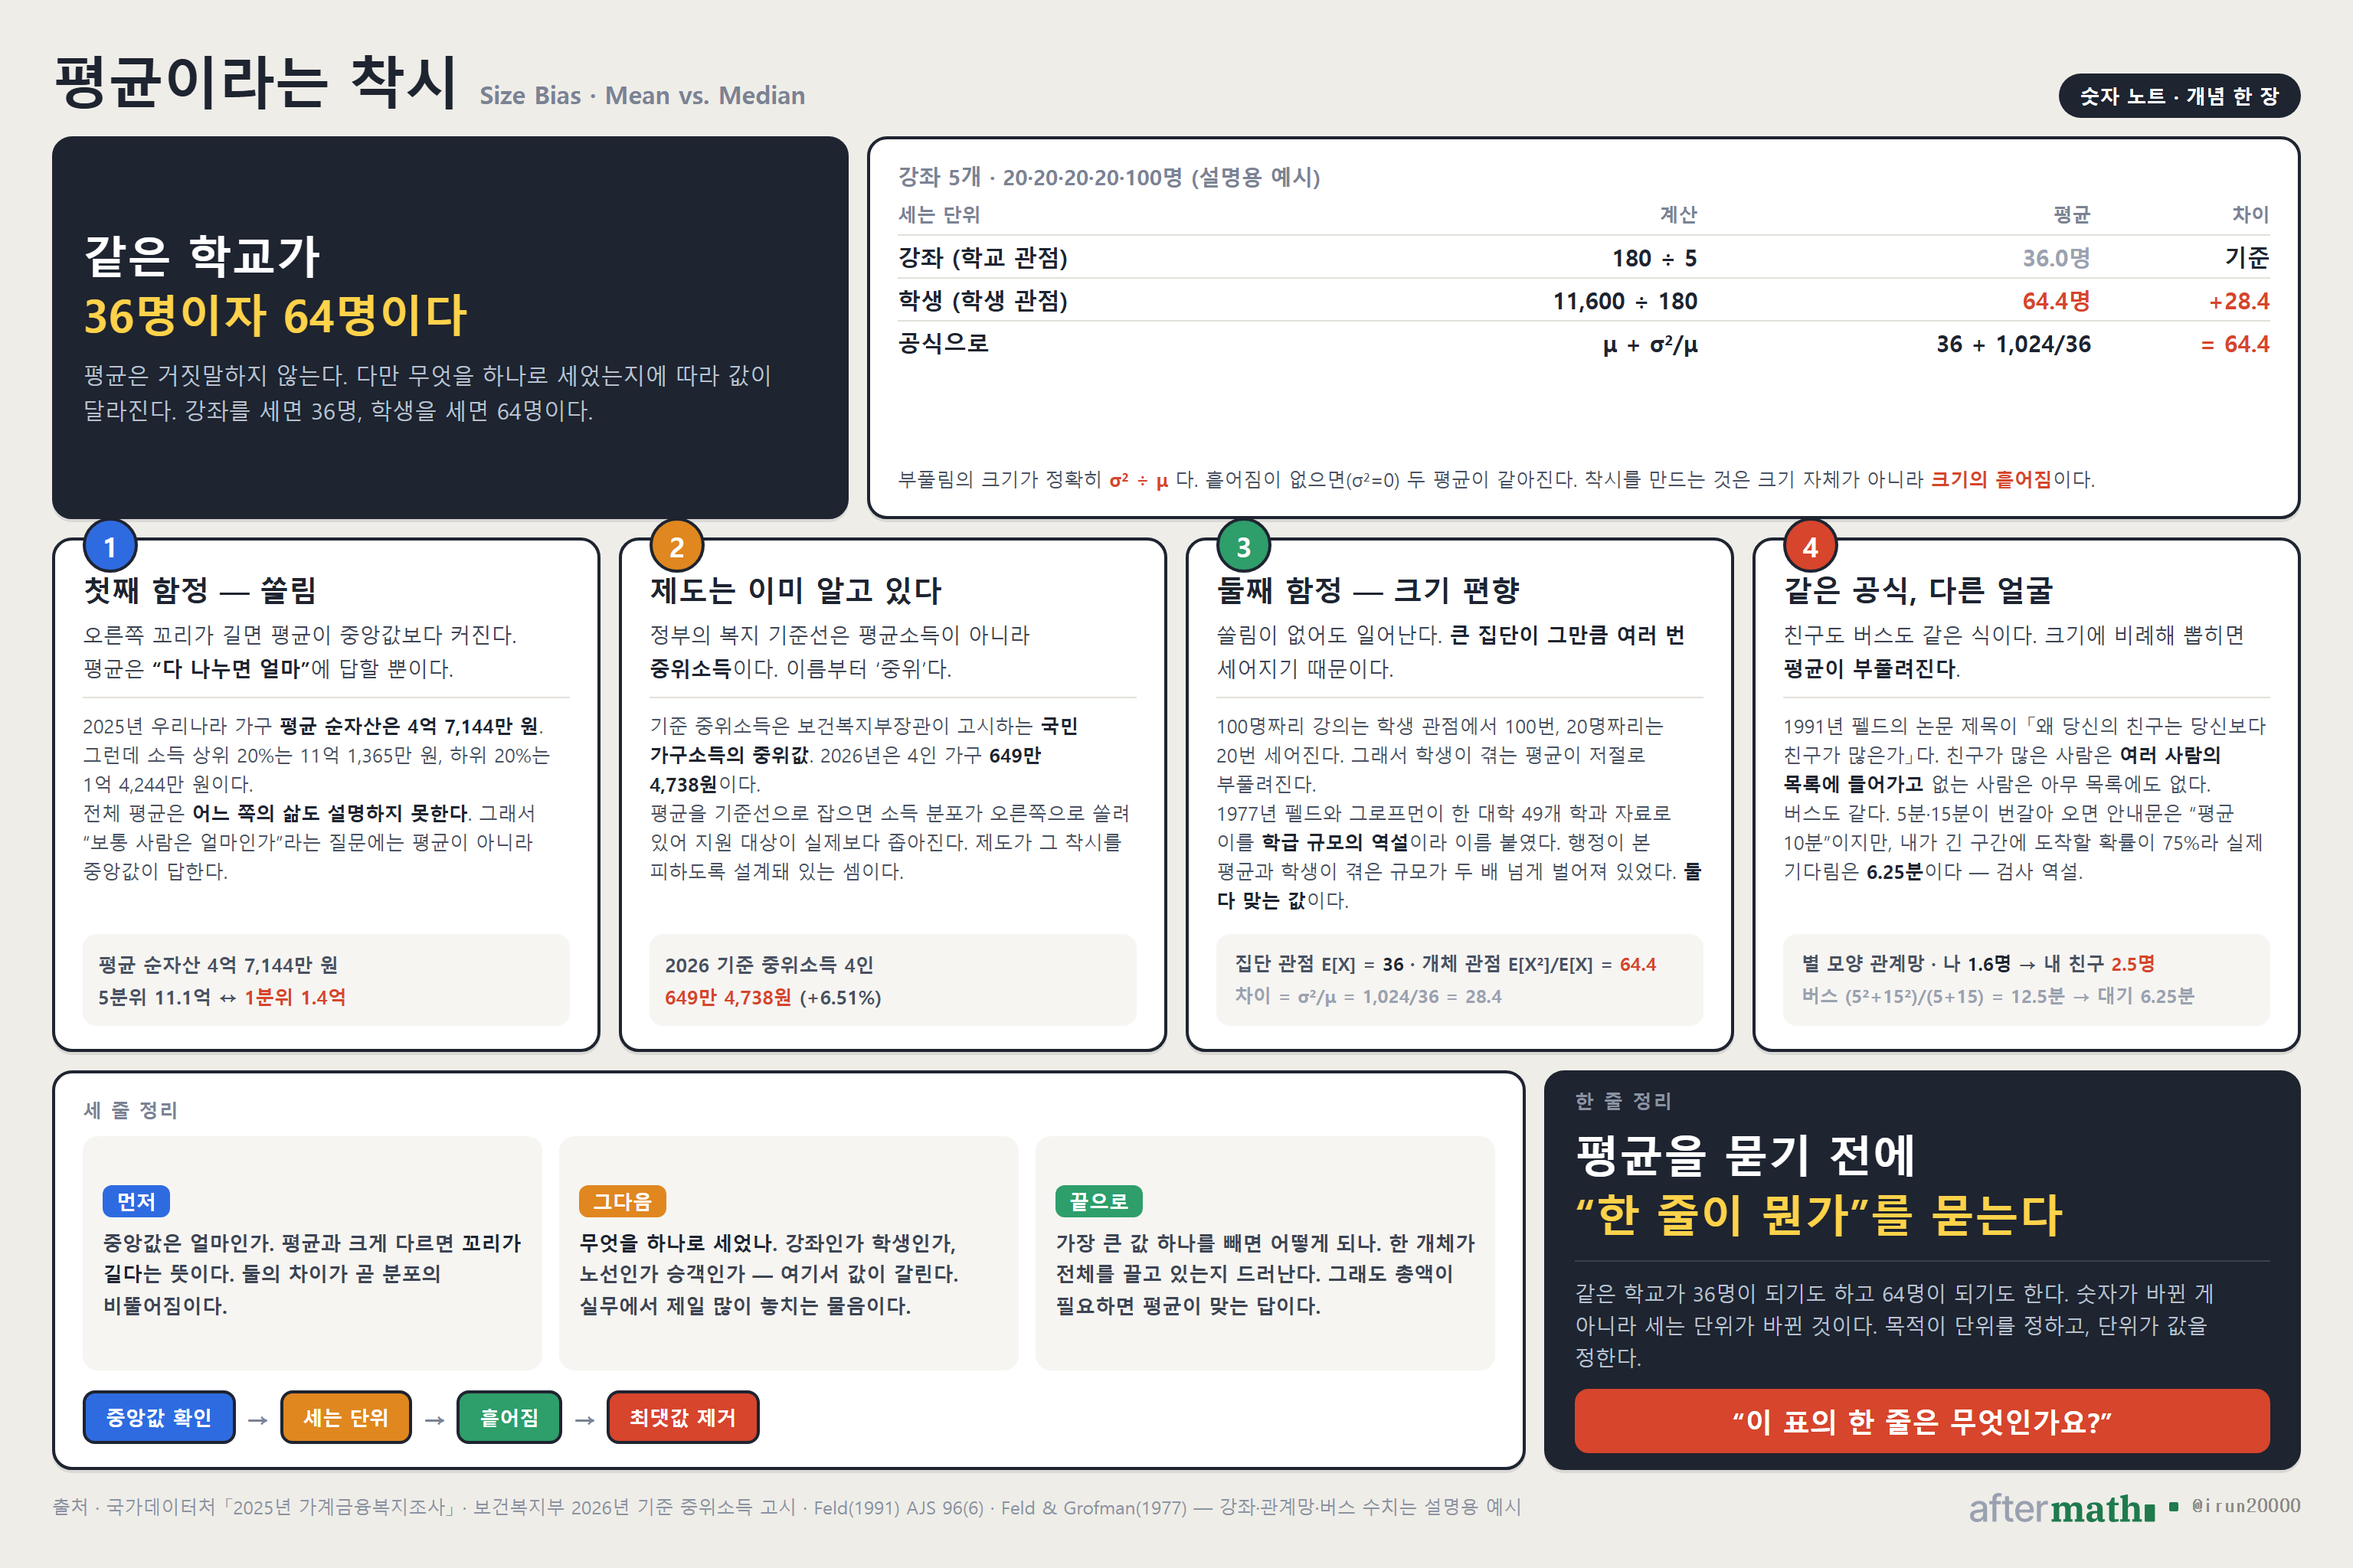
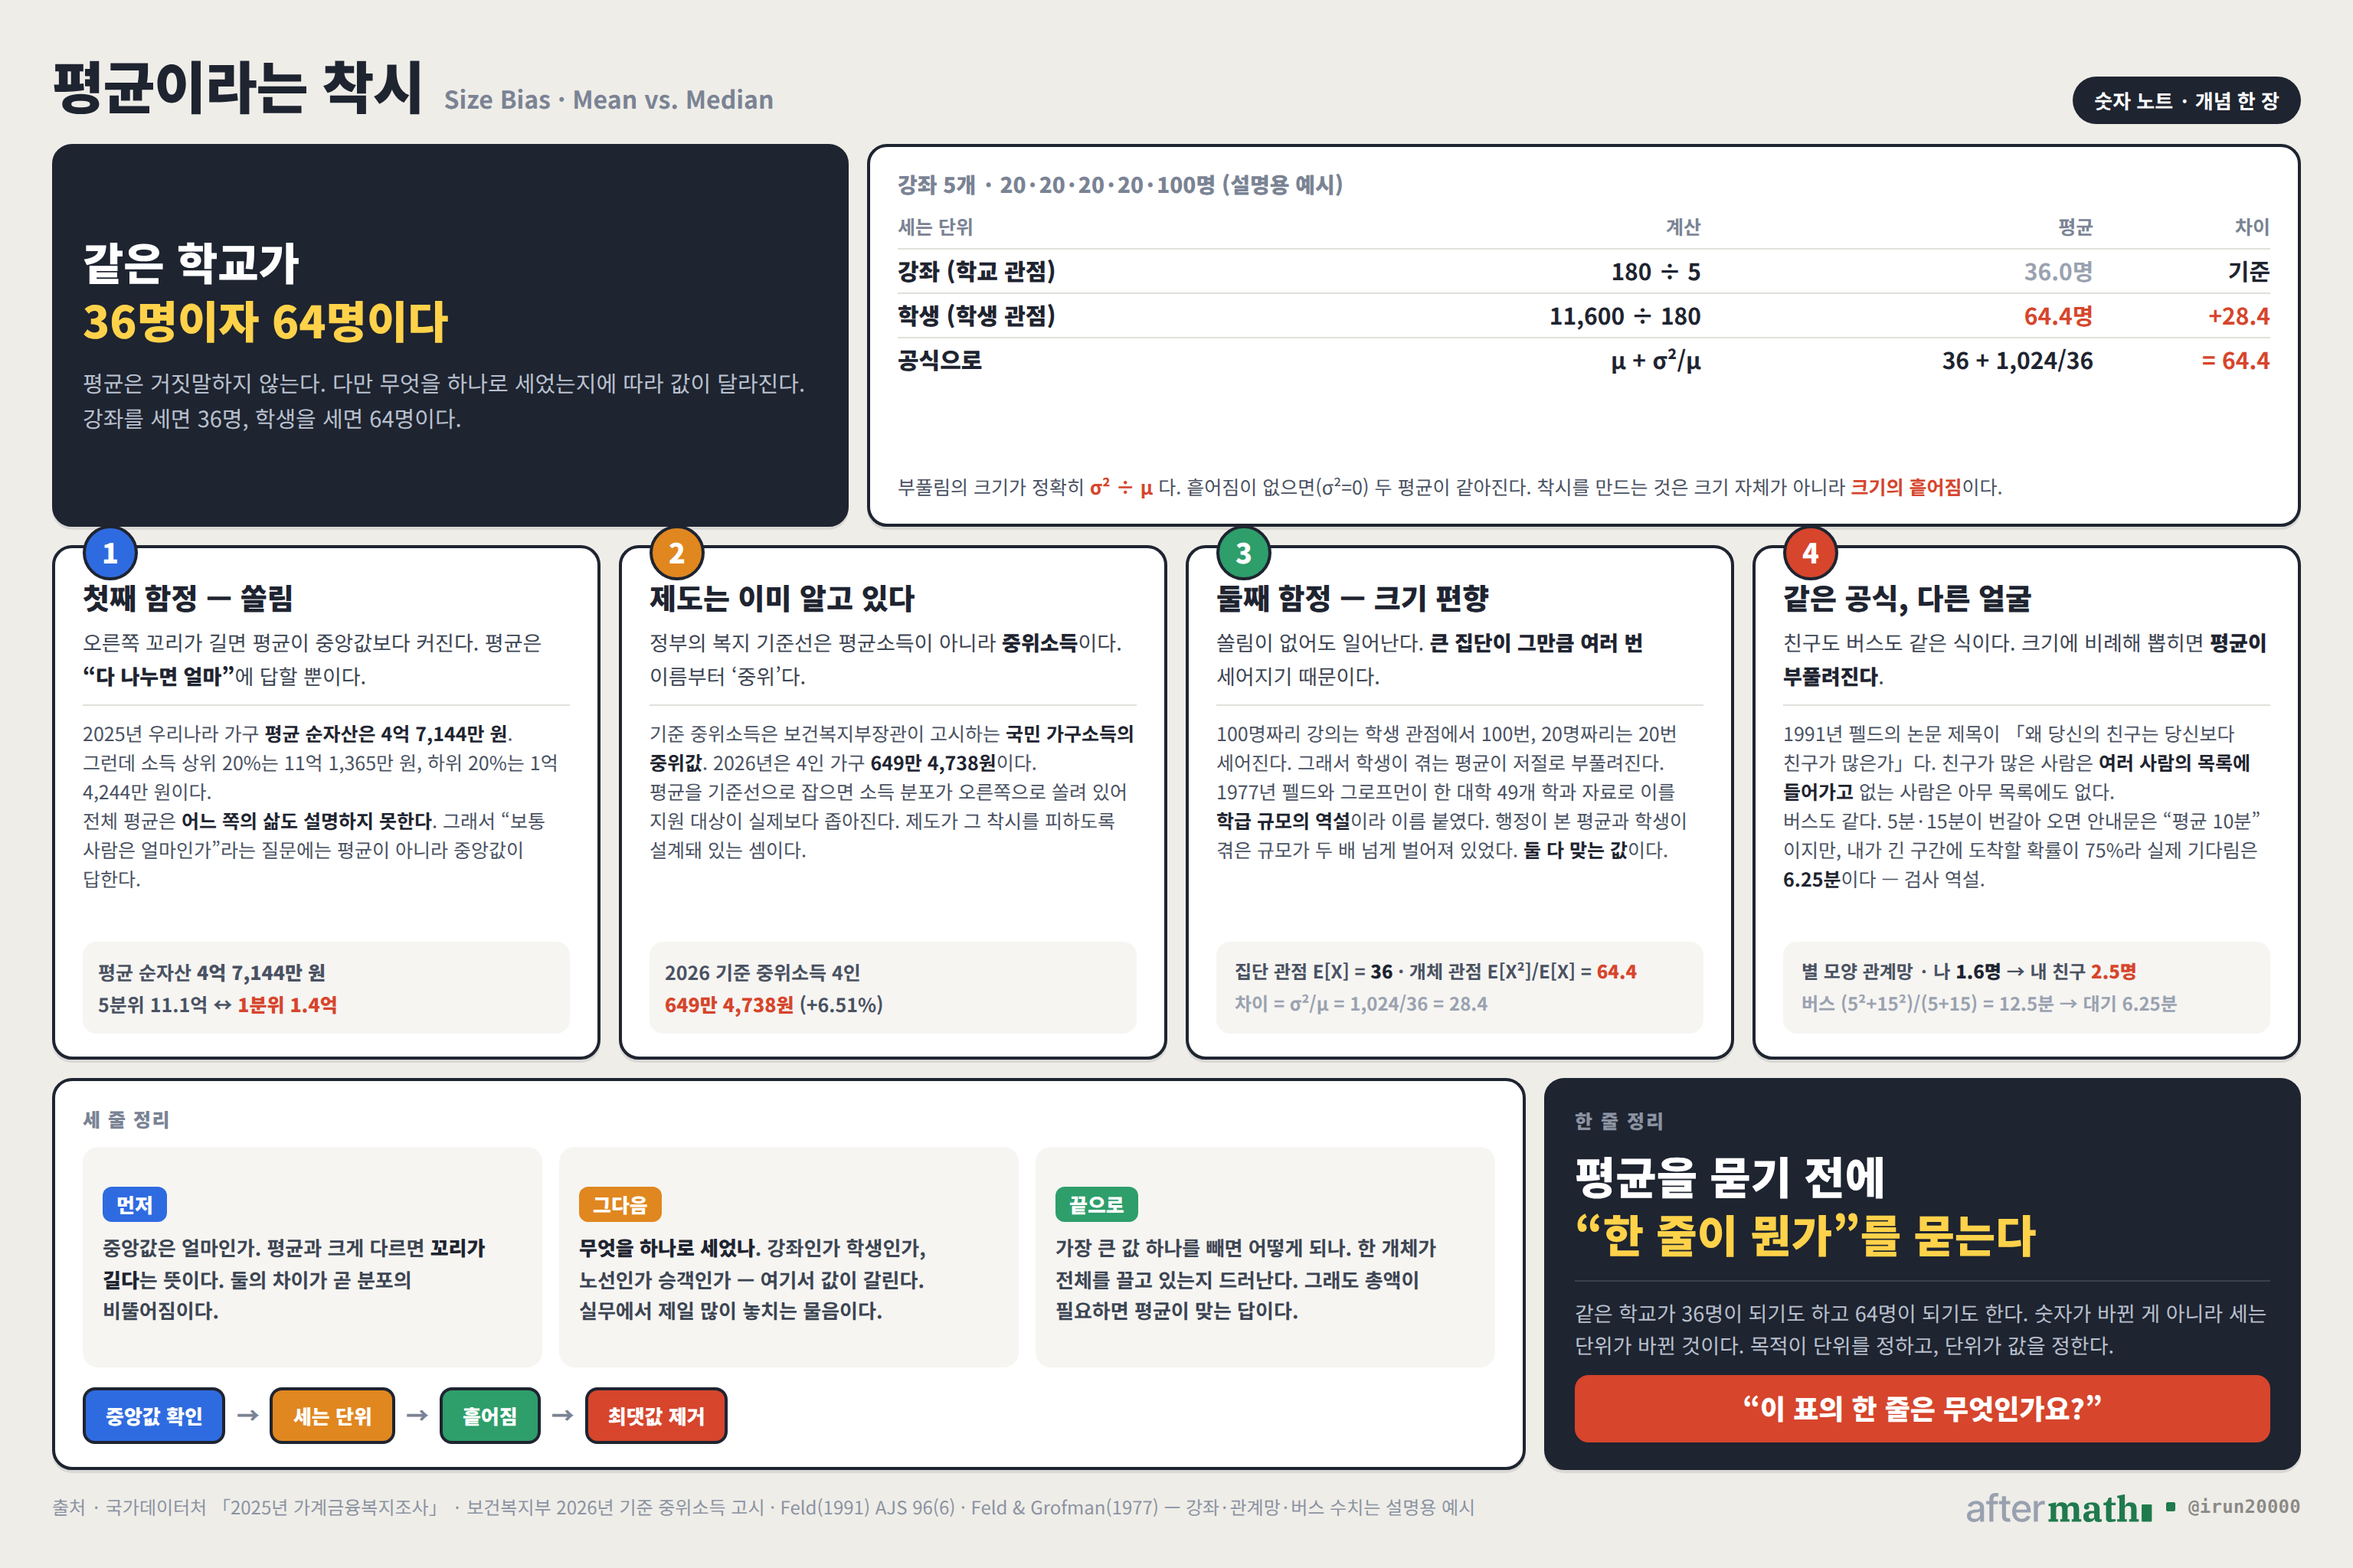
개념 한 장도 러너에서 그린다 — 기준 환경을 하나로 (#114)
* 개념 한 장도 러너에서 그린다 — 기준 환경을 하나로

어제는 "기존 다섯 장과 폰트 환경이 같은가"로 잠갔다. 그렇게 두면 되돌릴 수 없는
두 장(스펙 없는 심슨·최적정지) 때문에 나머지 전부가 폴백 폰트에 묶인다.

사용자 판단(같은 날): 양식만 같으면 되고, 낙관이 찍히고 읽을 수 있으면 된다.
처음 두 장은 테스트분으로 둔다.

- 게이트 교체   폰트가 '같은가' → 한글이 '읽히는가'
                없는 코드포인트와 폭이 같으면 두부(□)로 그려지는 것이다.
                진짜 사고는 리눅스에 한글 폰트가 아예 없는 경우다.
- 새 워크플로   concept-sheet-render.yml — studio/concepts/*.py 를 러너에서 렌더해
                concept/assets/<슬러그>.png 를 갈아 끼운다. 본문과 manifest 는 안 건드린다.
                본문 없는 슬러그는 넣지 않는다(그림만 떠도는 것 방지).

이제 카드뉴스와 개념 한 장이 같은 기준 환경(러너 · Noto CJK)을 쓴다.
어제 CLAUDE.md 에 적은 반대 규칙도 뒤집었다.

* chore(concept): 개념 한 장 러너 렌더

---------

diff --git a/studio/engine/build_concept_sheet.py b/studio/engine/build_concept_sheet.py
@@ -133,40 +133,30 @@ def table(head, rows):
     return f"<table><tr>{th}</tr>{tr}</table>"
 
 
-# --- 환경 지문 -------------------------------------------------------------
-# 2026-08-22 결정: 개념 한 장 다섯 장은 모두 같은 환경(윈도우 · Noto CJK 없음 →
-# 맑은 고딕 폴백)에서 그려졌고, 그대로 두기로 했다. 기존 두 장(심슨·최적정지)은
-# 스펙이 남아 있지 않아 다시 그릴 수 없으므로, 환경을 바꾸면 다섯 장이 갈린다.
+# --- 한글이 읽히는가 --------------------------------------------------------
+# 2026-08-22 초안은 "기존 다섯 장과 폰트 환경이 같은가"를 봤다. 그런데 그렇게 잠그면
+# 되돌릴 수 없는 두 장(스펙 없는 심슨·최적정지) 때문에 나머지 전부가 열등한 폴백 폰트에
+# 묶인다. 사용자 판단(같은 날): **양식만 같으면 되고, 낙관이 찍히고 읽을 수 있으면 된다.**
 #
-# 그래서 폰트가 "있는지" 가 아니라 **그때와 같은지**를 본다. 탐침 문자열의 폭을
-# 재서 아래 값과 다르면 멈춘다. 카드뉴스와 방향이 반대인 규칙이라(그쪽은 CJK 가
-# 있어야 한다) 헷갈리기 쉬워 여기 적어 둔다.
-FONT_FINGERPRINT = {"h900": 635, "b800": 470, "r400": 700, "lat": 820}
-
-FP_JS = """() => {
+# 그래서 조건을 바꿨다 - 폰트가 '같은지' 가 아니라 한글이 '읽히는지' 만 본다.
+# 진짜 사고는 리눅스처럼 한글 폰트가 아예 없는 환경에서 글자가 두부(□)로 나오는 것이다.
+# 없는 코드포인트(사용자 영역)와 폭이 같으면 한글도 두부로 그려지고 있는 것이다.
+TOFU_JS = """() => {
   const c = document.createElement('canvas').getContext('2d');
-  const m = (w, s) => { c.font = w + " 100px 'Noto Sans CJK KR','Malgun Gothic',sans-serif";
-                        return Math.round(c.measureText(s).width); };
-  return { h900: m(900, '평균은 대표가'), b800: m(800, '개념 한 장'),
-           r400: m(400, '가나다라마바사'), lat: m(700, 'Survivorship Bias') };
+  c.font = "100px 'Noto Sans CJK KR','Malgun Gothic',sans-serif";
+  const ko   = Math.round(c.measureText('가나다라마바사').width);
+  const tofu = Math.round(c.measureText('').width);
+  return { ko: ko, tofu: tofu };
 }"""
 
 
-def check_font_env(pg, force=False):
-    got = pg.evaluate(FP_JS)
-    if got == FONT_FINGERPRINT:
-        return
-    diff = ", ".join("%s %s→%s" % (k, FONT_FINGERPRINT[k], got[k])
-                     for k in FONT_FINGERPRINT if got.get(k) != FONT_FINGERPRINT[k])
-    msg = ("[개념 한 장] 폰트 환경이 기존 다섯 장과 다르다 - " + diff + "\n"
-           "  여기서 그리면 글자가 기존 장들과 갈린다. 기존 두 장은 스펙이 없어\n"
-           "  다시 그릴 수 없으므로 되돌릴 방법이 없다.\n"
-           "  같은 PC(윈도우)에서 그리거나, 정말 환경을 바꾸려면 다섯 장을 모두\n"
-           "  다시 그린 뒤 FONT_FINGERPRINT 를 갱신할 것.")
-    if force:
-        print("! " + msg)
-        return
-    raise SystemExit(msg)
+def check_hangul(pg):
+    r = pg.evaluate(TOFU_JS)
+    if r["ko"] == r["tofu"]:
+        raise SystemExit(
+            "[개념 한 장] 이 환경에는 한글 폰트가 없다 - 글자가 두부(네모)로 그려진다." + '\n' +
+            "  리눅스라면 fonts-noto-cjk 를 설치할 것.")
+
 
 
 def build(spec, out_png, scale=2):
@@ -239,7 +229,7 @@ def build(spec, out_png, scale=2):
         b = pw.chromium.launch()
         pg = b.new_page(viewport={"width": 1536, "height": 1024}, device_scale_factor=scale)
         pg.goto(h.as_uri()); pg.wait_for_timeout(500)
-        check_font_env(pg)
+        check_hangul(pg)
         over = pg.evaluate("()=>document.body.scrollHeight - 1024")
         clip = pg.evaluate("""()=>[...document.querySelectorAll('.card,.step,.pt')]
             .filter(e=>e.scrollHeight>e.clientHeight+1)

diff --git a/studio/concept_sheet.py b/studio/concept_sheet.py
@@ -12,9 +12,9 @@
 산출물은 `out/개념한장_<파일키>.png`. 학습자료 폴더로 옮기면
 `tools/ingest_concept.py` 가 제목과 짝지어 서가로 반입한다.
 
-**렌더는 이 PC(윈도우)에서만 한다.** 지금 있는 다섯 장이 Noto CJK 없는 환경에서
-폴백 폰트로 그려졌고, 기존 두 장은 스펙이 없어 다시 그릴 수 없다. 환경이 다르면
-`FONT_FINGERPRINT` 가 렌더를 거부한다. 카드뉴스와 방향이 반대인 규칙이다.
+**기준 환경은 러너다**(`.github/workflows/concept-sheet-render.yml`). 여기서 그려도
+되지만 폰트가 달라 글자 굵기가 다르게 나온다 — 서가에 올릴 그림은 러너가 그린 것을 쓴다.
+처음 두 장(심슨·최적정지)은 스펙이 없어 다시 그릴 수 없으므로 테스트분으로 남는다.
 
 왜 스펙을 따로 두나 - 처음 두 장(심슨·최적정지)은 스펙이 대화 안에만 있었고
 파일로 남지 않았다. 그래서 같은 양식으로 한 장 더 만들려면 레이아웃을 처음부터

diff --git a/studio/CLAUDE.md b/studio/CLAUDE.md
@@ -133,11 +133,11 @@ dist/                갤러리 빌드 결과 (git 제외)
 - 개념 풀에서 **`보류`·`검증필요`** 상태 항목으로 제작하지 말 것.
 - 학습자료(이해편 리포트)를 **웹 검증 없이** 쓰지 말 것. 검증 못 하면 안 만드는 게 정답이다.
 - 개념 한 장을 **이미지 생성 모델로 만들지 말 것.** 한글이 깨진다. HTML → 스크린샷 경로만 쓴다.
-- 개념 한 장을 **러너(GitHub Actions)에서 렌더하지 말 것.** 카드뉴스와 방향이 반대다.
-  → 카드뉴스는 러너에 Noto CJK 가 있어야 발행본과 같고,
-    개념 한 장은 **지금 있는 다섯 장이 CJK 없는 윈도우 PC 에서 폴백 폰트로 그려졌다**(2026-08-22 확인).
-    기존 두 장(심슨·최적정지)은 스펙이 남아 있지 않아 다시 그릴 수 없으므로,
-    환경을 바꾸면 다섯 장이 영영 갈린다. `build_concept_sheet.FONT_FINGERPRINT` 가 이를 막는다.
+- 개념 한 장도 **러너에서 렌더한다** — 카드뉴스와 같은 기준 환경이다(`concept-sheet-render.yml`).
+  → 처음 두 장(심슨·최적정지)은 CJK 없는 윈도우 PC 에서 폴백 폰트로 그려졌고 스펙이 남지
+    않아 다시 그릴 수 없다. **테스트분으로 둔다**(2026-08-22 사용자 판단). 앞으로 나오는
+    것은 전부 러너 기준으로 같다. 빌더는 폰트가 같은지를 보지 않고 **한글이 두부(□)로
+    나오지 않는지**만 본다 — 읽히고 낙관이 찍히면 된다.
 - **부모 노트는 학습자료를 만들지 않는다** (경험 기반 조언 · 심리 연구 재현성 문제).
 
 ---
